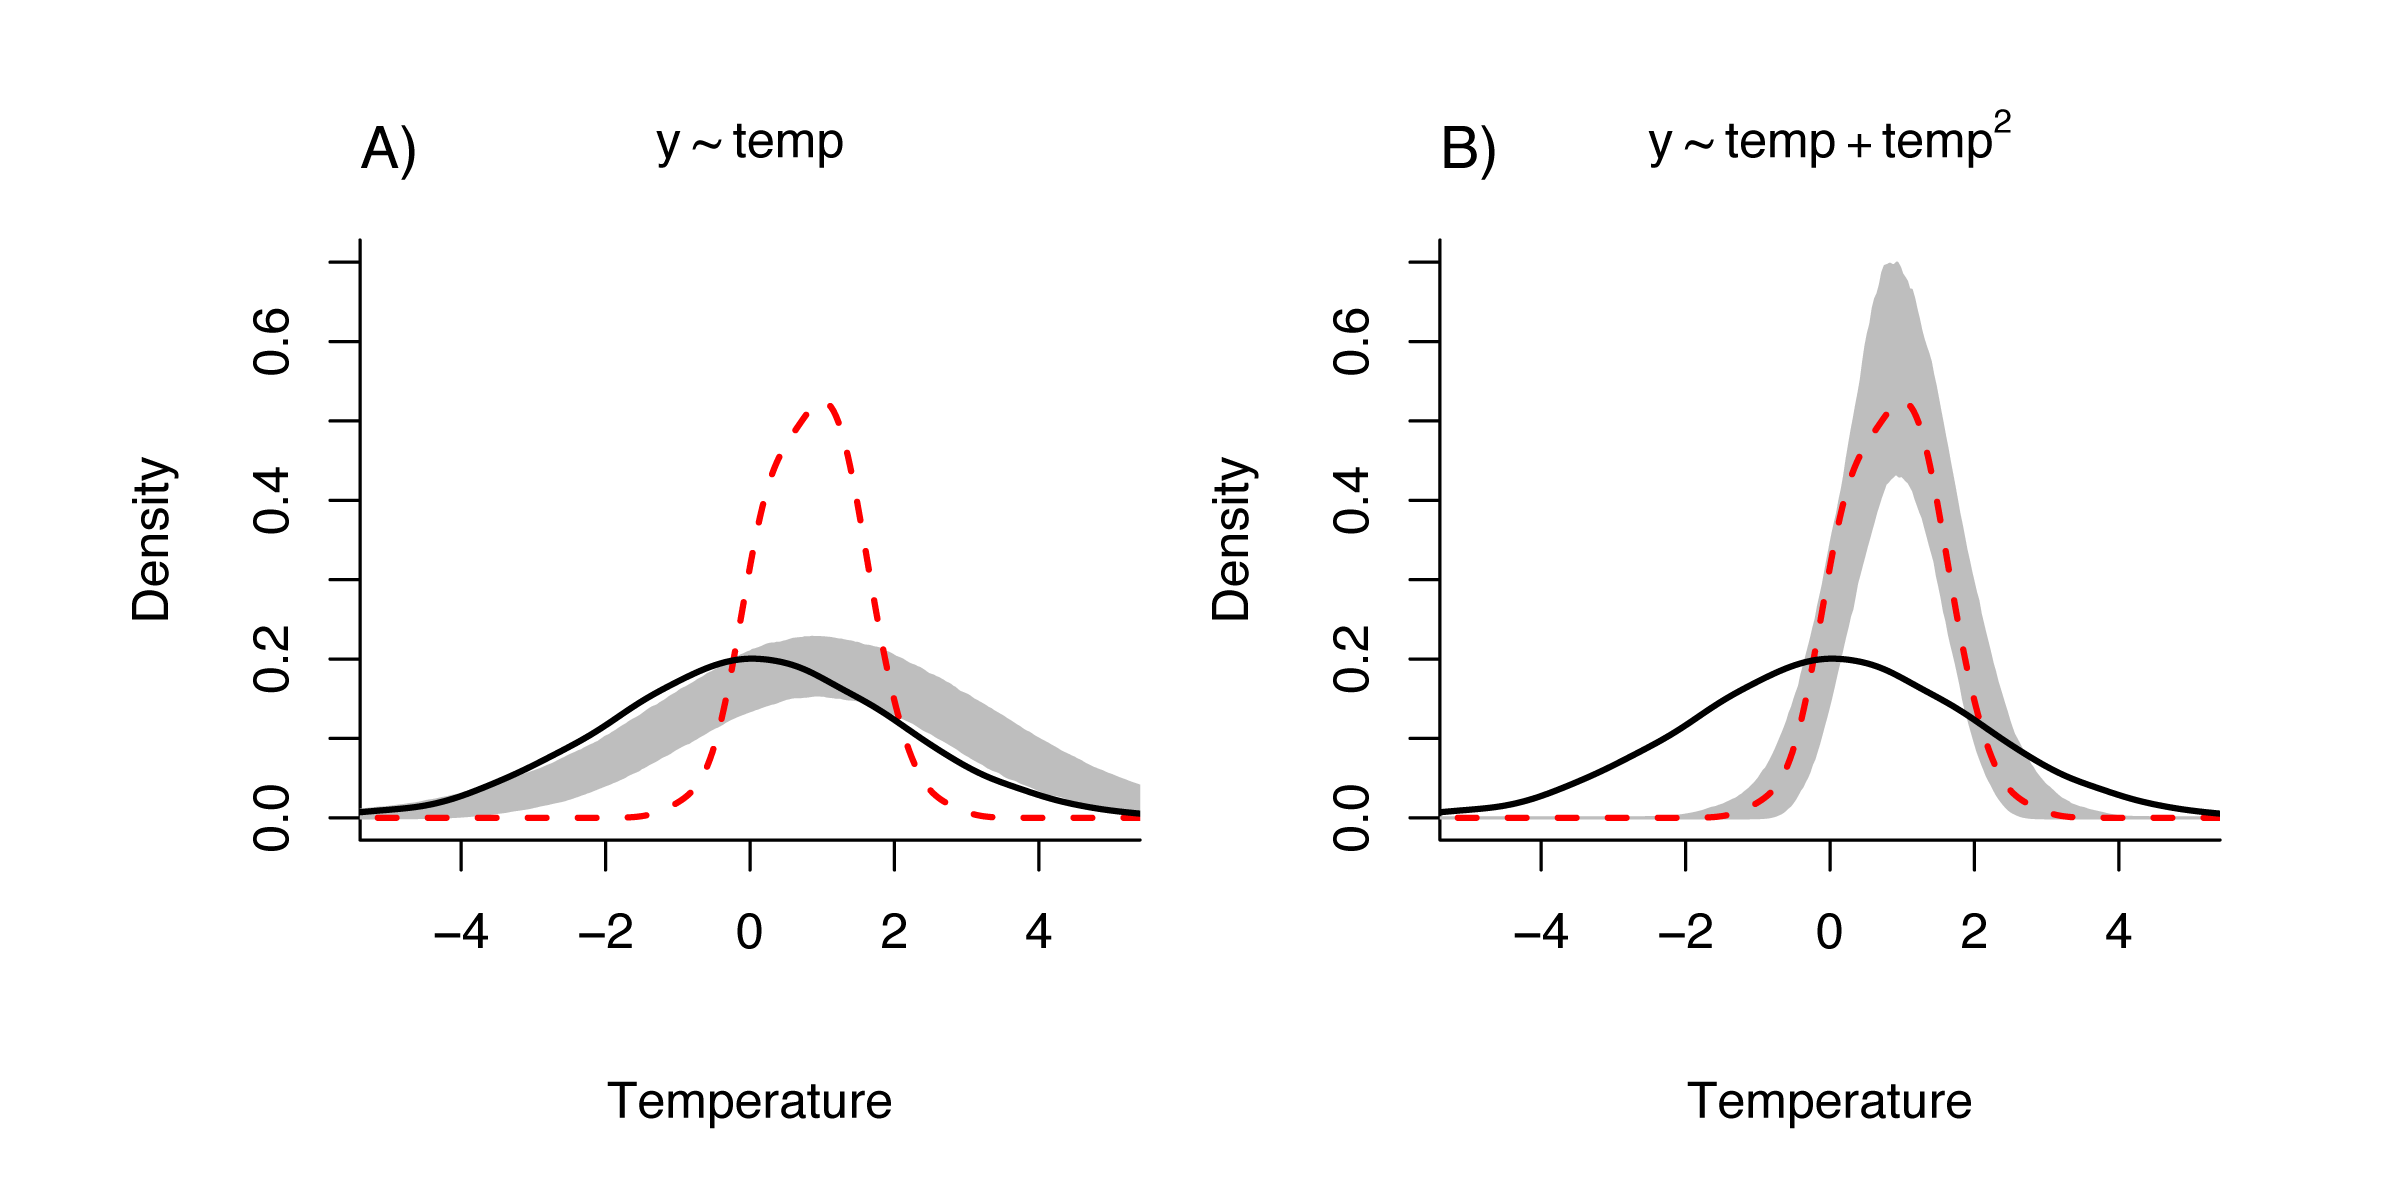
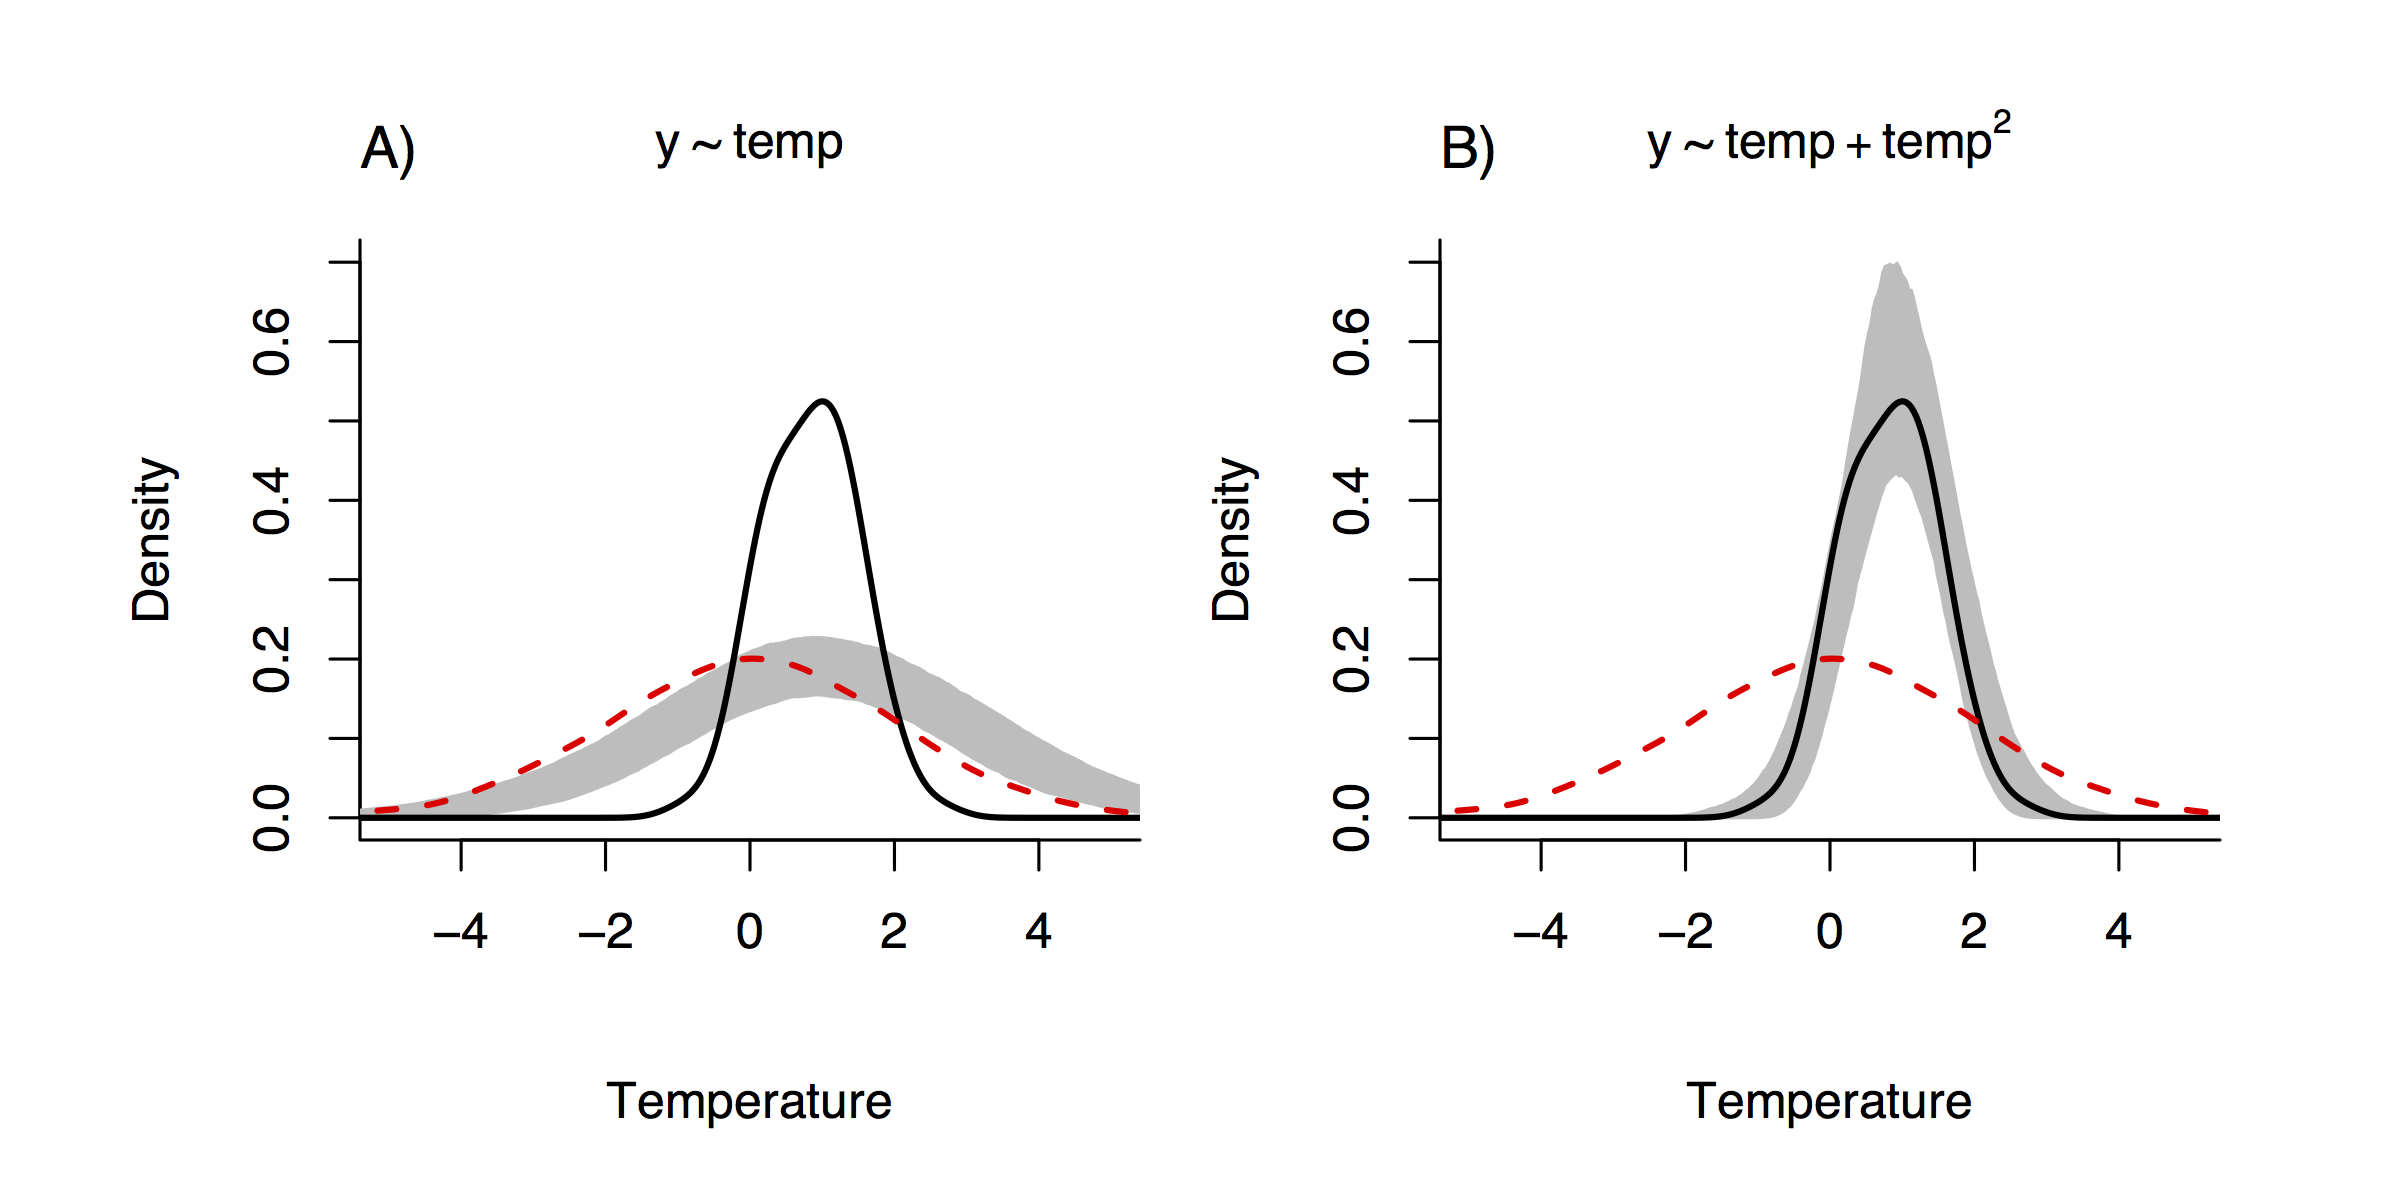
update README for Ecography

diff --git a/README.md b/README.md
@@ -2,15 +2,15 @@
 
 **In Development** *These tools are being developed and have not yet been fully tested.*
 
-Create Used-Habitat Calibration Plots as described in Fieberg et al. (In review for Ecology Letters).
+Create Used-Habitat Calibration Plots as described in Fieberg et al. (In review for Ecography).
 
 Programmer: John Fieberg | Secondary Programmer: Althea ArchMiller
 
-Fieberg, Forester, Street, Johnson, ArchMiller, and Matthiopoulos. In Review. Species distribution models: predictive snipers or shots in the dark? Ecology Letters.
+Fieberg, Forester, Street, Johnson, ArchMiller, and Matthiopoulos. In Review. Used-habitat calibration plots: A new procedure for validating species distribution, resource selection, and step-selection models. Ecography.
 
 ## Used-Habitat Calibration plots (UHC plots)
 
-Used-Habitat Calibration plots are a new method for model calibration that can be applied across a spectrum of species distribution models (SDMs) (Fieberg et al. In review for Ecology Letters). To create a UHC plot, we first split our data into training and testing data sets. Then, we:
+Used-Habitat Calibration plots are a new method for model calibration that can be applied across a spectrum of species distribution models (SDMs) (Fieberg et al. In review for Ecography). To create a UHC plot, we first split our data into training and testing data sets. Then, we:
 
 1. Summarize the distribution of the covariates at used points in the dataset
 2. Fit a model to the training dataset and store coefficients and their variance/covariances
@@ -19,6 +19,6 @@ Used-Habitat Calibration plots are a new method for model calibration that can b
 
 ![UHCschematic](uhc_schematic.png)
 
-With UHC plots, we can validate models by comparing the distributions of observed and predicted values of the explanatory variables at the presence (or used) locations and compare them with the distributions of the absence (or background) locations. For instance, let's suppose that we have a species that is distributed on the landscape based on a quadratic relationship with temperature (x). The following figure demonstrates that when we fit a mis-specified model (i.e., linear temperature covariate only; left panel), our UHC simulation envelope (grey band) fails to contain the distribution of temperature at used/presence locations (red dashed lines). This indicates that the model is not well-calibrated. When we add the quadratic temperature term, the UHC simulation envelope contains the used location distribution (right panel), indicating a well-calibrated model. The data used in this example can be simulated with the `uhcdatasimulator` function.
+With UHC plots, we can validate models by comparing the distributions of observed and predicted values of the explanatory variables at the presence (or used) locations and compare them with the distributions of the absence (or background) locations. For instance, let's suppose that we have a species that is distributed on the landscape based on a quadratic relationship with temperature (x). The following figure demonstrates that when we fit a mis-specified model (i.e., linear temperature covariate only; left panel), our UHC simulation envelope (grey band) fails to contain the distribution of temperature at used/presence locations (solid black line). This indicates that the model is not well-calibrated. When we add the quadratic temperature term, the UHC simulation envelope contains the used location distribution (right panel), indicating a well-calibrated model. The data used in this example can be simulated with the `uhcdatasimulator` function. The distribution of available or background points is given in this plot as a red dashed line.
 
 ![UHCplot](uhc_temperature.png)
